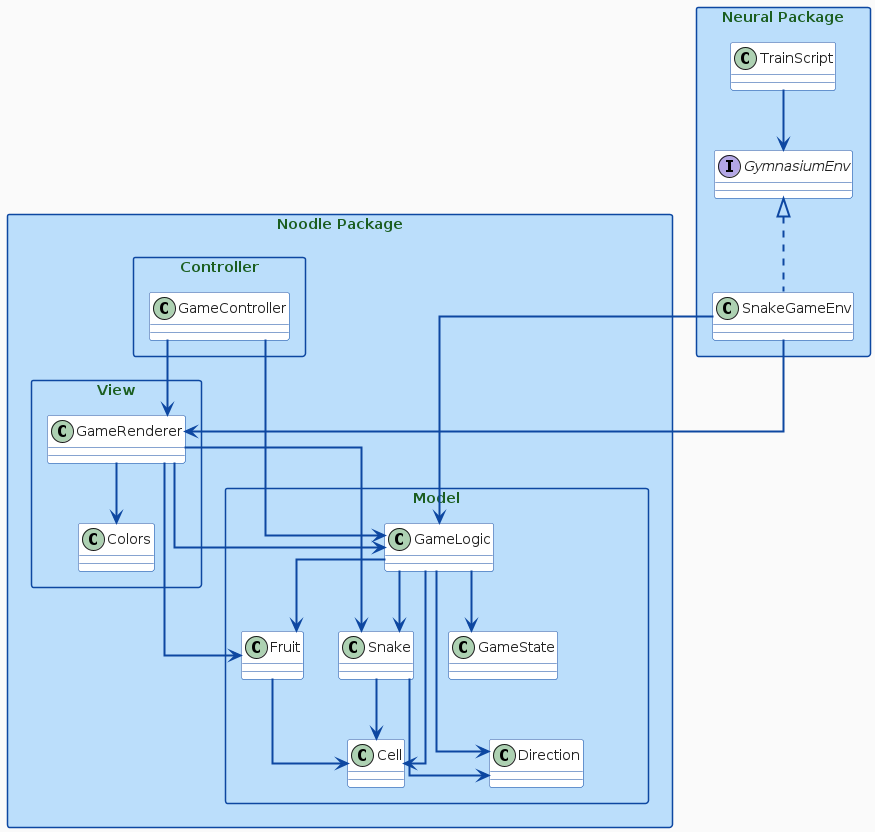
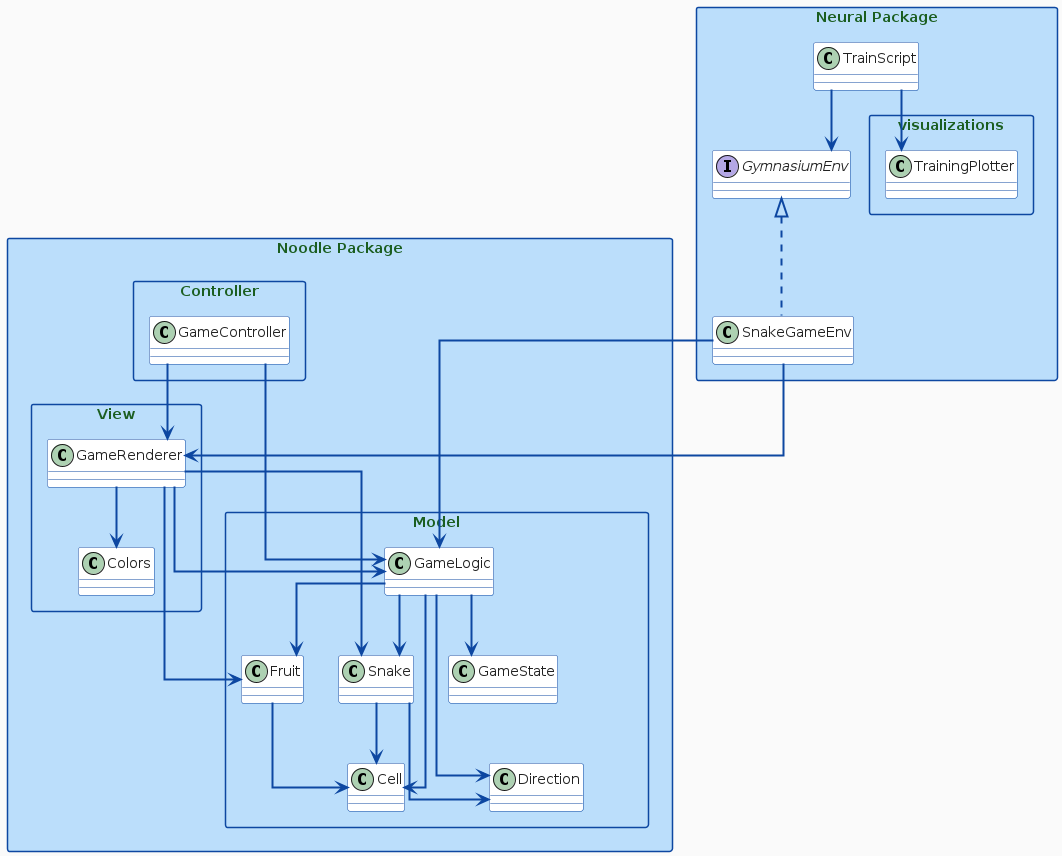
Extracted visualizatin code into its own subpackage

Changed region(s): [[0.0, 0.0, 1.0, 1.0]]

diff --git a/src/neural/train.py b/src/neural/train.py
@@ -5,60 +5,7 @@ import numpy as np
 from stable_baselines3 import DQN
 from stable_baselines3.common.evaluation import evaluate_policy
 
-from src.neural import SnakeGameEnv
-
-
-def setup_plot() -> (
-    tuple[plt.Figure, plt.Axes, plt.Axes, plt.Line2D, plt.Line2D]
-):
-    """Sets up the real-time plotting environment."""
-    plt.ion()  # Interactive mode on
-    fig, (reward_ax, length_ax) = plt.subplots(1, 2, figsize=(12, 6))
-
-    # Initialize lines for rewards and lengths
-    (reward_line,) = reward_ax.plot([], [], label="Episode Rewards")
-    (length_line,) = length_ax.plot([], [], label="Episode Lengths")
-
-    # Configure axes for rewards
-    reward_ax.set_xlabel("Episodes")
-    reward_ax.set_ylabel("Rewards")
-    reward_ax.set_title("Episode Rewards Over Time")
-    reward_ax.legend()
-
-    # Configure axes for lengths
-    length_ax.set_xlabel("Episodes")
-    length_ax.set_ylabel("Episode Lengths")
-    length_ax.set_title("Episode Lengths Over Time")
-    length_ax.legend()
-
-    plt.tight_layout()
-
-    return fig, reward_ax, length_ax, reward_line, length_line
-
-
-def update_plot(
-    episode_rewards: list[float],
-    episode_lengths: list[int],
-    reward_line: plt.Line2D,
-    length_line: plt.Line2D,
-) -> None:
-    """Updates the plot in real-time with new episode data."""
-    reward_line.set_xdata(range(len(episode_rewards)))
-    reward_line.set_ydata(episode_rewards)
-
-    length_line.set_xdata(range(len(episode_lengths)))
-    length_line.set_ydata(episode_lengths)
-
-    # Rescale the axes to accommodate new data
-    reward_line.axes.relim()
-    reward_line.axes.autoscale_view()
-
-    length_line.axes.relim()
-    length_line.axes.autoscale_view()
-
-    # Redraw the plot
-    plt.draw()
-    plt.pause(0.01)
+from src.neural import SnakeGameEnv, visualizations
 
 
 def create_snake_env(env_config: dict) -> SnakeGameEnv:
@@ -112,7 +59,7 @@ def train_snake_dqn(config: dict) -> None:
         total_reward = 0
 
         # Setup for real-time plot updates
-        fig, reward_ax, length_ax, reward_line, length_line = setup_plot()
+        training_plotter = visualizations.TrainingPlotter()
 
         # Reset the environment
         obs, _ = env.reset()
@@ -148,9 +95,7 @@ def train_snake_dqn(config: dict) -> None:
                 episode_lengths.append(len(episode_rewards))
 
                 # Update the plot with the new data
-                update_plot(
-                    episode_rewards, episode_lengths, reward_line, length_line
-                )
+                training_plotter.update(episode_rewards, episode_lengths)
 
                 # Reset the environment when the episode ends
                 total_reward = 0

diff --git a/src/neural/visualizations/plotting.py b/src/neural/visualizations/plotting.py
@@ -1,0 +1,76 @@
+"""
+Plotting Module.
+
+This module provides a single class, TrainingPlotter, that sets up Matplotlib
+plots for real-time visualization of Snake training and updates them with new
+data. No separate references to reward/length lines are needed.
+"""
+
+import matplotlib.pyplot as plt
+
+
+class TrainingPlotter:
+    """
+    A self-contained class for setting up and updating the Snake training plots.
+
+    Example usage:
+        plotter = TrainingPlotter()
+        ...
+        plotter.update(episode_rewards, episode_lengths)
+    """
+
+    def __init__(self) -> None:
+        """Initialize the figure, axes, and plot lines."""
+        plt.ion()  # Interactive mode on
+        self.fig, (self.reward_ax, self.length_ax) = plt.subplots(
+            1, 2, figsize=(12, 6)
+        )
+
+        # Create line objects for rewards and lengths
+        (self.reward_line,) = self.reward_ax.plot(
+            [], [], label="Episode Rewards"
+        )
+        (self.length_line,) = self.length_ax.plot(
+            [], [], label="Episode Lengths"
+        )
+
+        # Configure reward axis
+        self.reward_ax.set_xlabel("Episodes")
+        self.reward_ax.set_ylabel("Rewards")
+        self.reward_ax.set_title("Episode Rewards Over Time")
+        self.reward_ax.legend()
+
+        # Configure length axis
+        self.length_ax.set_xlabel("Episodes")
+        self.length_ax.set_ylabel("Episode Lengths")
+        self.length_ax.set_title("Episode Lengths Over Time")
+        self.length_ax.legend()
+
+        plt.tight_layout()
+
+    def update(
+        self, episode_rewards: list[float], episode_lengths: list[int]
+    ) -> None:
+        """
+        Updates the training plots in real-time with new episode data.
+
+        :param episode_rewards: A list of cumulative rewards per episode.
+        :param episode_lengths: A list of lengths (number of steps) per episode.
+        """
+        self.reward_line.set_xdata(range(len(episode_rewards)))
+        self.reward_line.set_ydata(episode_rewards)
+
+        self.length_line.set_xdata(range(len(episode_lengths)))
+        self.length_line.set_ydata(episode_lengths)
+
+        # Rescale axes to accommodate new data
+        if self.reward_line.axes is not None:
+            self.reward_line.axes.relim()
+            self.reward_line.axes.autoscale_view()
+
+        if self.length_line.axes is not None:
+            self.length_line.axes.relim()
+            self.length_line.axes.autoscale_view()
+
+        plt.draw()
+        plt.pause(0.01)

diff --git a/src/neural/visualizations/__init__.py b/src/neural/visualizations/__init__.py
@@ -1,0 +1,8 @@
+"""
+The `visualizations` subpackage provides real-time training 
+visualization support for the Neural Noodle project.
+"""
+
+from .plotting import TrainingPlotter
+
+__all__ = ["TrainingPlotter"]

diff --git a/src/neural/__init__.py b/src/neural/__init__.py
@@ -1,4 +1,5 @@
 """Neural Package which contains the Snake Game neural network training functionality."""
 
 from .environment import SnakeGameEnv
+from . import visualizations
 from . import train
